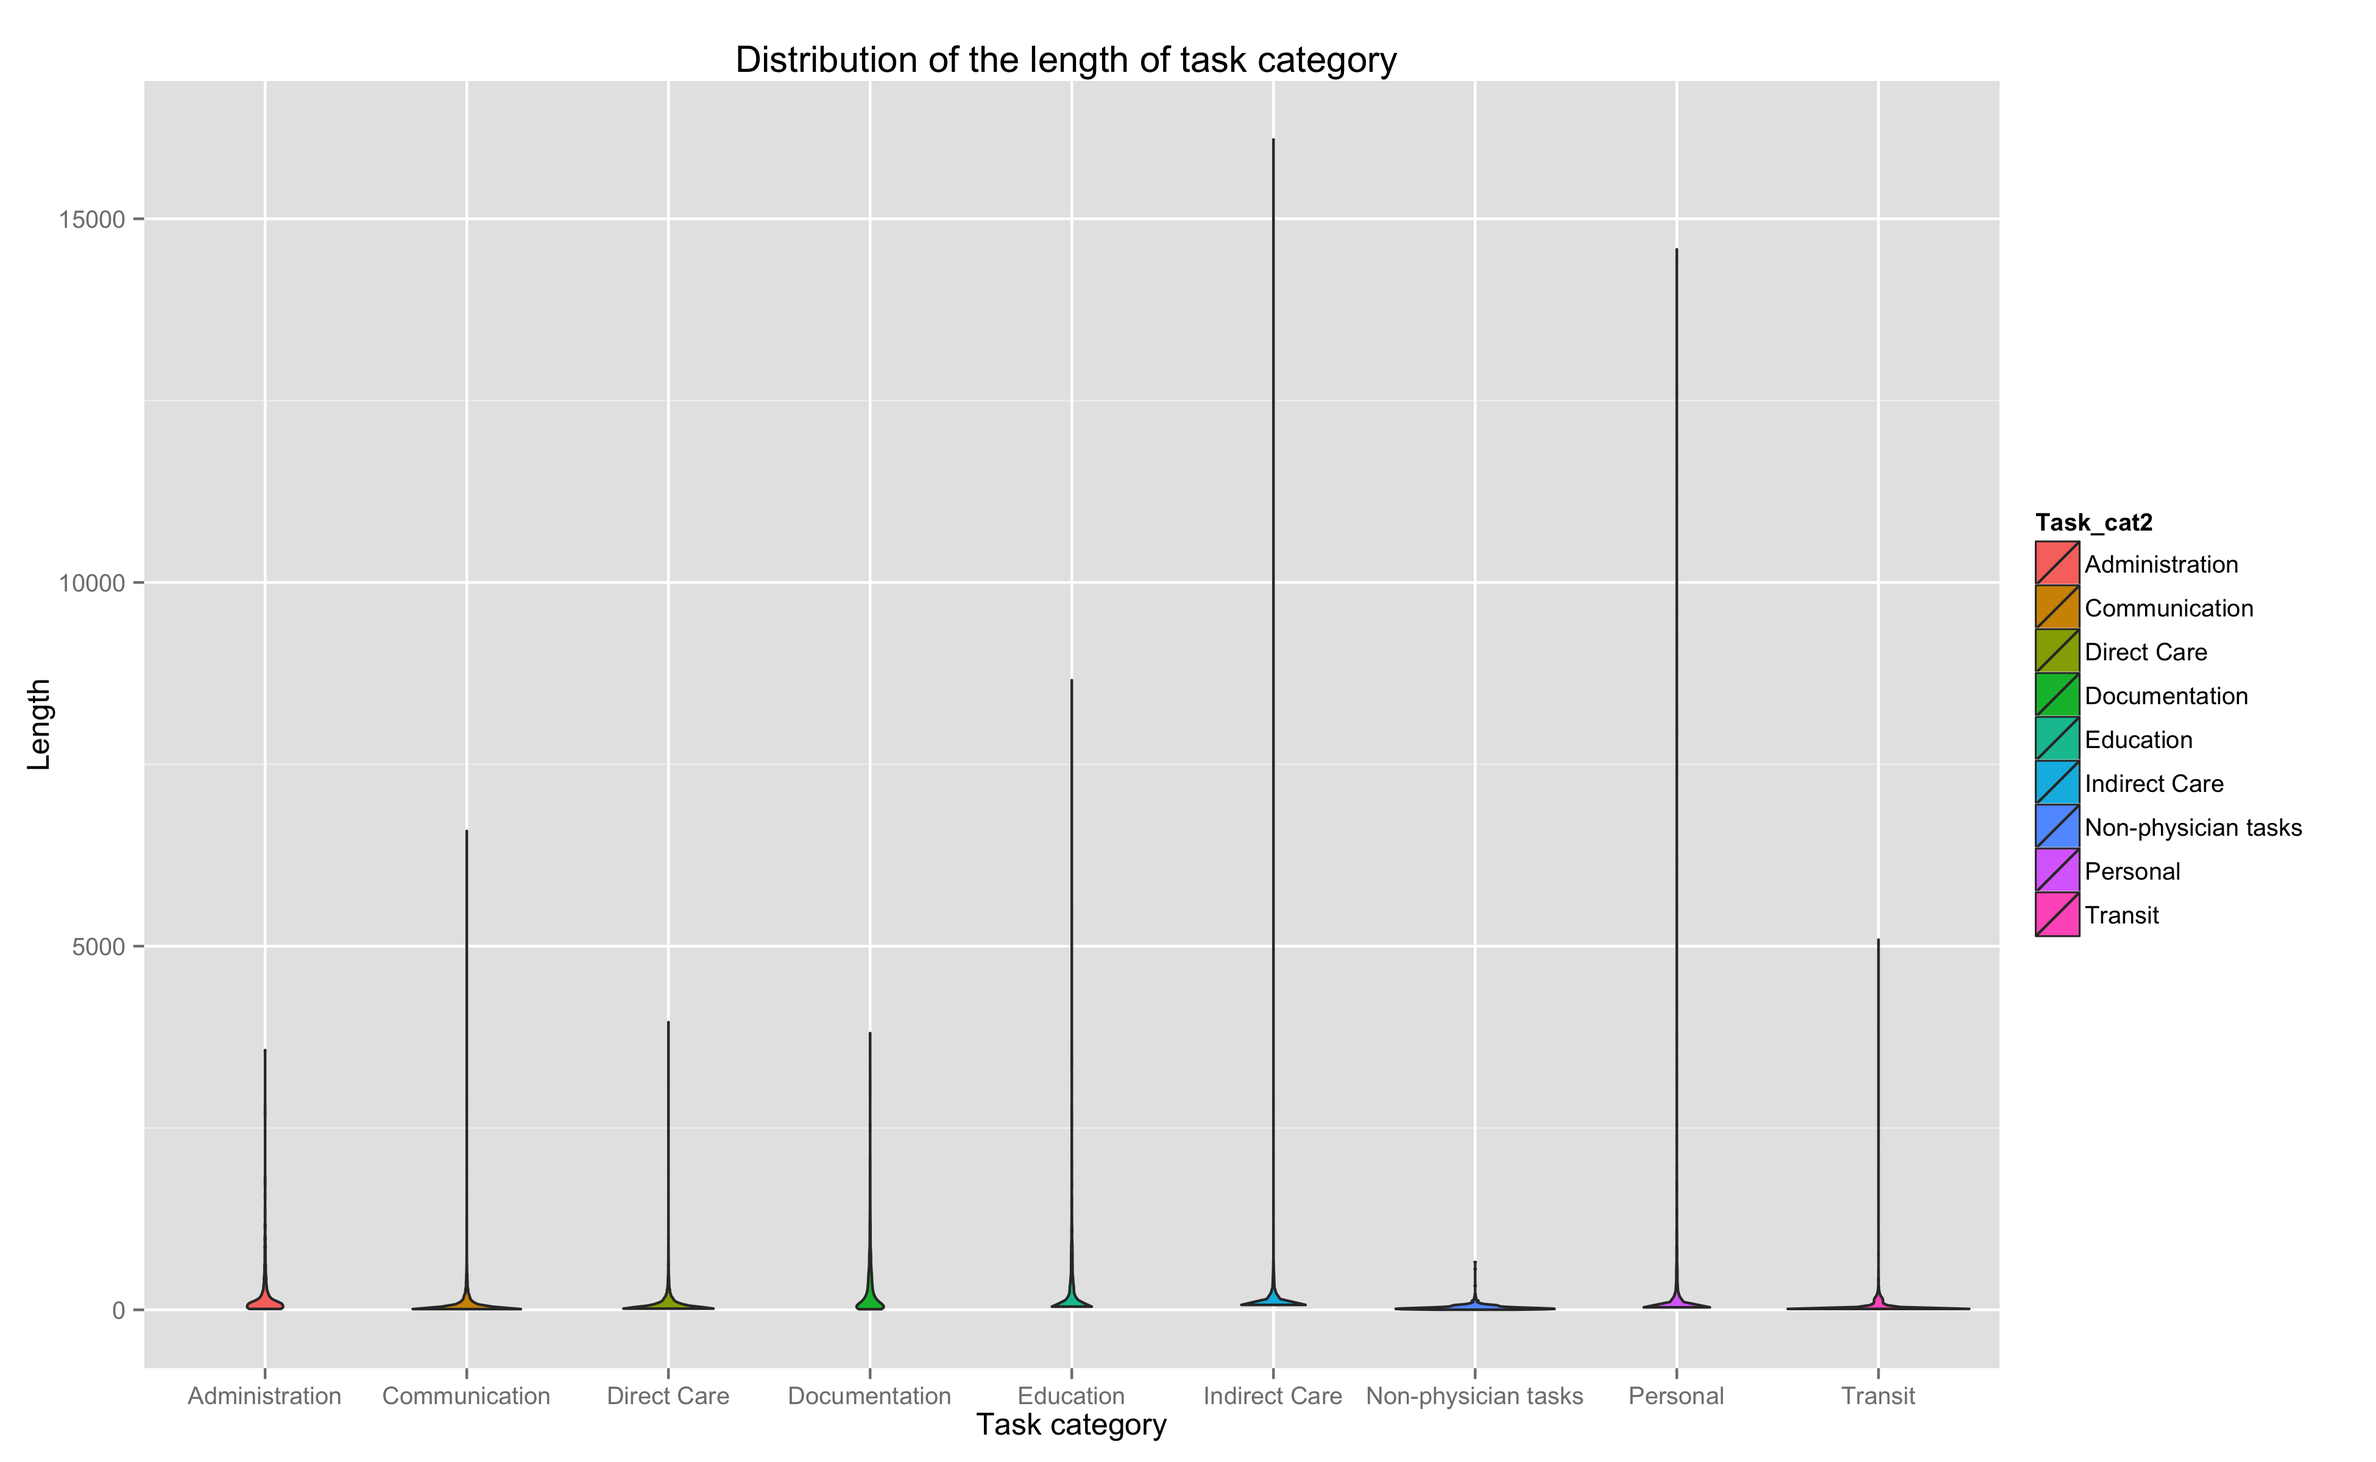
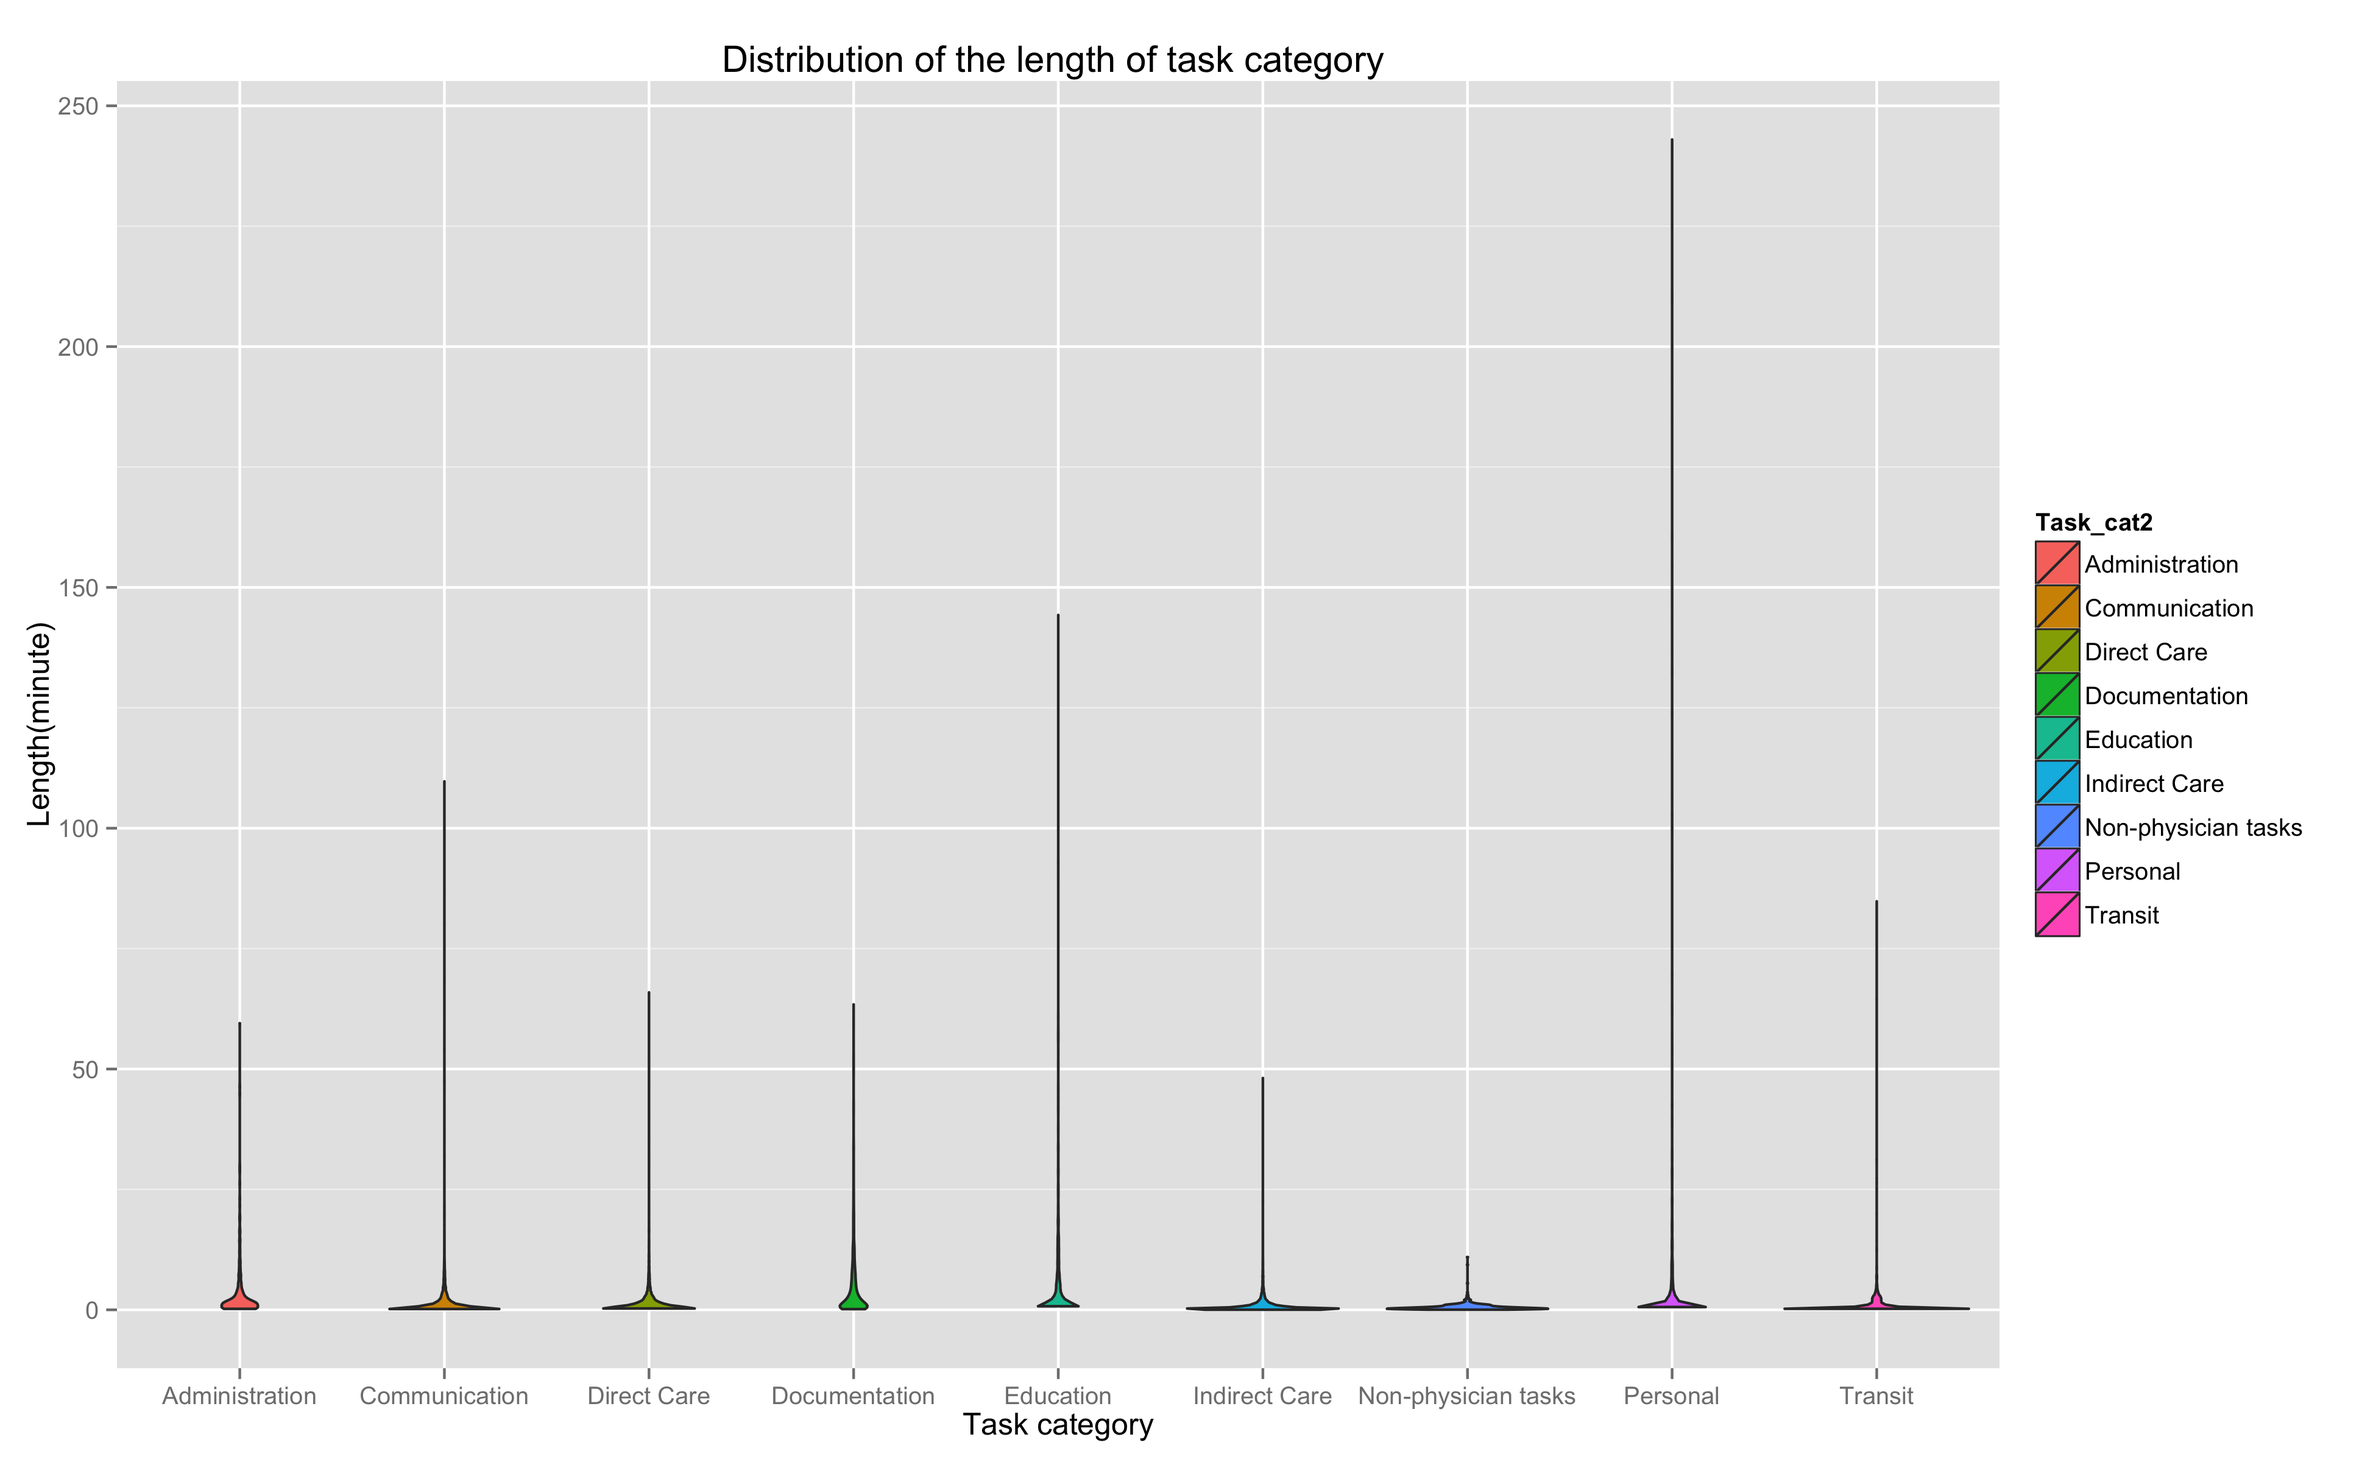
update

diff --git a/index.html b/index.html
@@ -47,9 +47,9 @@
         </div>
         <div id="navbar" class="navbar-collapse collapse">
           <ul class="nav navbar-nav">
-            <li class="active"><a href="#">Data Science in R</a></li>
-            <li><a href="Lubridate.html">Publications</a></li>
-            <li><a href="#contact">Teaching</a></li>
+            <li class="active"><a href="#">Main page</a></li>
+            <li><a href="#">Link1</a></li>
+            <li><a href="#contact">Link2</a></li>
             <li class="dropdown">
               <a href="#" class="dropdown-toggle" data-toggle="dropdown" role="button" aria-haspopup="true" aria-expanded="false">Dropdown <span class="caret"></span></a>
               <ul class="dropdown-menu">
@@ -77,33 +77,7 @@
       </div>
     </div>
 
-    
-    
-    
-    <div class="container">
-      <!-- Example row of columns -->
-      <div class="row">
-        <div class="col-md-4">
-          <h2>Regression model</h2>
-          <p>The chart : </p>
-          <p>Some text</p>
-        </div>
-        <div class="col-md-4">
-          <h2>Heading</h2>
-          <p>Donec id elit non mi porta gravida at eget metus. Fusce dapibus, tellus ac cursus commodo, tortor mauris condimentum nibh, ut fermentum massa justo sit amet risus. Etiam porta sem malesuada magna mollis euismod. Donec sed odio dui. ut fermentum massa justo sit amet risus. Etiam porta sem malesuada magna mollis euismod. Donec sed odio dui.ut fermentum massa justo sit amet risus. Etiam porta sem malesuada magna mollis euismod. Donec sed odio dui </p>
-          <p><a class="btn btn-default" href="#" role="button">View details &raquo;</a></p>
-       </div>
-        <div class="col-md-4">
-          <h2>Heading</h2>
-          <p>Donec sed odio dui. Cras justo odio, dapibus ac facilisis in, egestas eget quam. Vestibulum id ligula porta felis euismod semper. Fusce dapibus, tellus ac cursus commodo, tortor mauris condimentum nibh, ut fermentum massa justo sit amet risus.</p>
-          <p><a class="btn btn-default" href="#" role="button">View details &raquo;</a></p>
-        </div>
-      </div>
-
-      <hr>
-      
-      
-      <!--Report outline>
+      <!--Report outline
        ================================================== -->
       
       <div class="container">
@@ -111,25 +85,27 @@
           <div class="page-header" id="banner">
               <div class="row">
                   <div class="col-lg-8 col-md-7 col-sm-6">
-                      <h1>Cerulean</h1>
+                      <h3>Report outline</h3>
                   </div>
                   <div class="col-lg-4 col-md-5 col-sm-6">
                      
                   </div>
               </div>
               <div class="row">
-                  <div class="col-lg-4 col-md-3 col-sm-4">
+                  <div class="col-lg-6 col-md-6 col-sm-4">
                       <div class="list-group table-of-contents">
-                          <a class="list-group-item" href="#Analysis1">Analysis of activities in blocks of time</a>
-                          <a class="list-group-item" href="#Analysis2">Buttons</a>
-                          <a class="list-group-item" href="#typography">Typography</a>
-                          <a class="list-group-item" href="#tables">Tables</a>
-                          <a class="list-group-item" href="#forms">Forms</a>
-                          <a class="list-group-item" href="#navs">Navs</a>
-                          <a class="list-group-item" href="#indicators">Indicators</a>
-                          <a class="list-group-item" href="#progress-bars">Progress bars</a>
-                          <a class="list-group-item" href="#containers">Containers</a>
-                          <a class="list-group-item" href="#dialogs">Dialogs</a>
+                          <a class="list-group-item" href="#Analysis1">1. Analysis of frequency of activities in blocks of time</a>
+                          <a class="list-group-item" href="#Analysis1.1">1.1. Frequency of the task categories by block of time </a>
+                          <a class="list-group-item" href="#Analysis1.2">1.2. Frequency of all tasks by block of time </a>
+                          <a class="list-group-item" href="#Analysis2">2. Analysis of frequency of activities by resident type </a>
+                          <a class="list-group-item" href="#Analysis2.1"> 2.1. Frequency of the task categories by resident type </a>
+                          <a class="list-group-item" href="#Analysis2.2"> 2.2. Frequency of all tasks by resident type  </a>
+                          <a class="list-group-item" href="#Analysis3"> 3. Analysis of length of activities </a>
+                          <a class="list-group-item" href="#Analysis3.1"> 3.1. Distribution of the length of all tasks  </a>
+                          <a class="list-group-item" href="#Analysis3.2"> 3.2. Distribution of the length of tasks within task category  </a>
+                          <a class="list-group-item" href="#Analysis3.3"> 3.3. Distribution of the length of tasks within each task category by resident type  </a>
+                          <a class="list-group-item" href="#Analysis4">4. Analysis of length of interruptions </a>
+                    
                       </div>
                   </div>
               </div>
@@ -137,26 +113,17 @@
           
           
       
-      <!-- 1) Analysis of activities in blocks of time
+      <!-- Analysis of activities in blocks of time
        ================================================== -->
       
-      <div class="bs-docs-section clearfix">
-          <div class="row">
-              <div class="col-lg-12">
-                  <div class="page-header">
-                      <h3 id="Analysis1">Navbar</h3>
-                  </div>
-      
-      
-      
-      <h3 id="Analysis"> Analysis of activities in blocks of time</h3>
-        <hr>
+      <h3 id="Analysis1"> Analysis of frequency of activities in blocks of time</h3>
+      <hr>
       
       <p>This part presents the analysis </p>
       
        <br/>
       
-      <h4> 1) Frequency of the task categories by block of time </h4>
+      <h4 id="Analysis1.1"> 1) Frequency of the task categories by block of time </h4>
        <br/>
       
       <p>This part presents the analysis </p>
@@ -181,7 +148,7 @@
       
       
       
-      <h4> 2) Frequency of Top tasks by block of time </h4>
+      <h4 id="Analysis1.2"> 2) Frequency of all tasks by block of time </h4>
       <br/>
       
       <p>This part presents the analysis </p>
@@ -207,14 +174,14 @@
 
       <!--2) Analysis of activities by resident type>
        ================================================== -->
-      <h3> Analysis of activities by resident type</h3>
+      <h3 id="Analysis2">  Analysis of frequency of activities by resident type</h3>
       <hr>
       
       <p>This part presents the analysis </p>
       
       <br/>
       
-      <h4> 1) Frequency of the task categories by resident type  </h4>
+      <h4 id="Analysis2.1"> 1) Frequency of the task categories by resident type  </h4>
       <br/>
       
       <p>This part presents the analysis </p>
@@ -239,7 +206,7 @@
       
       
       
-      <h4> 2) Frequency of tasks by resident type </h4>
+      <h4 id="Analysis2.2"> 2) Frequency of tasks by resident type </h4>
       <br/>
       
       <p>This part presents the analysis </p>
@@ -263,19 +230,59 @@
       
       
       
-      <!--2) Analysis of length of activities
+      
+      <!--3) Analysis of length of activities
        ================================================== -->
-      <h3> Analysis of length of activities</h3>
+      <h3 id="Analysis3"> Analysis of length of activities</h3>
       <hr>
       
-      <p>This part presents the analysis </p>
+      
+      <h4 id="Analysis3.1"> 1) Distribution of the length of all tasks  </h4>
+      <br/>
+      
+      <p>Graph below presents the distribution of the length of activities after excluding erroneous outliers. It can be seen that the length of most activities involve
+      significant number of outliers that are standing very far from other data.</p>
+      
+    
+      <p> Since median will not be affected by outliers, it serves as a good measure for comparison in skewed data and data full of outliers. This version of the same graph on the right has been rescaled on the length axis to better demonstrate comparison based on the median. </p>
+      <br/>
+      
+      
+    
+      
+      <div class="row">
+          
+          <div class="col-sm-6"><!-- /.col-sm-4 -->
+              
+              <img src="g10.png" style="float: left" width="600" height="600" />
+              
+              <ul class="pager">
+                  <li><a href="g10.png">Full screen graph</a></li>
+              </ul>
+              
+          </div><!-- /.col-sm-4 -->
+          
+          <!-- /.col-sm-4 - second column -->
+          <div class="col-sm-6">
+              
+              <img src="g11.png" style="float: left" width="600" height="600" />
+              <ul class="pager">
+                  <li><a href="g11.png">Full screen graph</a></li>
+              </ul>
+              
+          </div><!-- /.col-sm-4 - second column -->
+          
+          
+      </div>
+      
       
       <br/>
       
-      <h4> 1) Distribution of the length of tasks by task category  </h4>
+      <h4 id="Analysis3.2"> 2) Distribution of the length of tasks within task category  </h4>
       <br/>
       
-      <p>This part presents the analysis </p>
+      <p>This part presents the analysis we look at the distribution of the length of activities within each category. Again in order to better compare different
+         caregories, the graph of the righ has been rescaled to better clearly demonstrate the median length within each category.</p>
       <br/>
       
       
@@ -288,7 +295,7 @@
           
           <div class="col-sm-6"><!-- /.col-sm-4 -->
               
-              <img src="g5.png" style="float: left" width="680" height="500" />
+              <img src="g5.png" style="float: left" width="600" height="500" />
               
               <ul class="pager">
                   <li><a href="g5.png">Full screen graph</a></li>
@@ -299,9 +306,9 @@
           <!-- /.col-sm-4 - second column -->
           <div class="col-sm-6">
               
-              <img src="g6.png" style="float: left" width="680" height="500" />
+              <img src="g6.png" style="float: left" width="600" height="500" />
               <ul class="pager">
-                  <li><a href="g5.png">Full screen graph</a></li>
+                  <li><a href="g6.png">Full screen graph</a></li>
               </ul>
               
           </div><!-- /.col-sm-4 - second column -->
@@ -309,7 +316,10 @@
           
       </div>
       
+      
+      <p>Below is the violin plot version of the same graphs that illustrate the location where most of the observations are located. </p>
       <br/>
+      
       
       <!-- second row
        ================================================== -->
@@ -318,7 +328,7 @@
           
           <div class="col-sm-6"><!-- /.col-sm-4 -->
               
-              <img src="g7.png" style="float: left" width="680" height="500" />
+              <img src="g7.png" style="float: left" width="600" height="500" />
               
               <ul class="pager">
                   <li><a href="g7.png">Full screen graph</a></li>
@@ -329,7 +339,7 @@
           <!-- /.col-sm-4 - second column -->
           <div class="col-sm-6">
               
-              <img src="g8.png" style="float: left" width="680" height="500" />
+              <img src="g8.png" style="float: left" width="600" height="500" />
               <ul class="pager">
                   <li><a href="g8.png">Full screen graph</a></li>
               </ul>
@@ -357,11 +367,46 @@
       
       <br/>
       
-      <h4> 2)  ?  </h4>
+      <h4 id="Analysis3.3"> 3) Distribution of the length of tasks within each task category by resident type </h4>
       <br/>
       
-      <p>This part presents the analysis </p>
+      <p> In this section we look at the distribution of the length of tasks within each task category by resident type to explore the differences between
+          Junior and Senior residences.</p>
       <br/>
+      
+
+      <!-- second row
+       ================================================== -->
+      
+      <div class="row">
+          
+          <div class="col-sm-6"><!-- /.col-sm-4 -->
+              
+              <img src="g12.png" style="float: left" width="600" height="500" />
+              
+              <ul class="pager">
+                  <li><a href="g12.png">Full screen graph</a></li>
+              </ul>
+              
+          </div><!-- /.col-sm-4 -->
+          
+          <!-- /.col-sm-4 - second column -->
+          <div class="col-sm-6">
+              
+              <img src="g13.png" style="float: left" width="600" height="500" />
+              <ul class="pager">
+                  <li><a href="g13.png">Full screen graph</a></li>
+              </ul>
+              
+          </div><!-- /.col-sm-4 - second column -->
+          
+          
+      </div>
+      
+      <br/>
+      
+      
+      
       
       
       
@@ -371,7 +416,7 @@
       
       <!--Analysis of length of interruptions>
        ================================================== -->
-      <h3> Analysis of length of interruptions</h3>
+      <h3 id="Analysis4"> Analysis of length of interruptions</h3>
       <hr>
       
       <p>This part presents the analysis </p>
